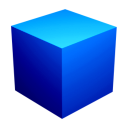
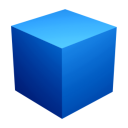
updated launcher

diff --git a/XBuilders Launcher/XBuildersLauncher/src/main/java/com/xbuilders_launcher/Main.java b/XBuilders Launcher/XBuildersLauncher/src/main/java/com/xbuilders_launcher/Main.java
@@ -14,67 +14,35 @@ import java.nio.file.Files;
 public class Main extends JFrame {
 
 
-    private static File getRelativePath(String relativePath) {
-        File currentDir = new File(System.getProperty("user.dir"));
-        //If relativePath starts with ../ set currentDir up one level
-        while (relativePath.startsWith("../") || relativePath.startsWith("..\\")) {
-            currentDir = currentDir.getParentFile();
-            relativePath = relativePath.substring(3);
-        }
-        return new File(currentDir, relativePath);
-    }
-
     public static void main(String[] args) {
         try {
             File currentDir = new File(System.getProperty("user.dir"));
             System.out.println("Current dir: " + currentDir.getAbsolutePath());
-            File config = new File(currentDir, "config.txt");
+            File configFile = new File(currentDir, "config.txt");
 
-            if (!config.exists()) {
-                //Create the config.txt file
-                String str = "XB2\t" +
-                        "XBuilders-2-main\\XBuilders-2-main\t" +
-                        "XBuildersUI4J.jar\n" +
-                        //---------------------------
-                        "XB3\t" +
-                        "XBuilders-main\\XBuilders-main\t" +
-                        "XBuilders3.jar";
 
-                Files.write(config.toPath(), str.getBytes());
-            }
 
             //Read the config.txt file
-            String[] lines = new String(Files.readAllBytes(config.toPath())).split("\n");
+            Config config = new Config(configFile);
+            System.out.println(config.toString());
 
-            File xbuilders2File = null;
-            File xbuilder3File = null;
-            for (int i = 0; i < lines.length; i++) {
-                lines[i] = lines[i].trim();
-                String[] parts = lines[i].split("\t");
 
-                if (parts[0].equals("XB2")) {
-                    xbuilders2File = getRelativePath(parts[1]);
-                } else if (parts[0].equals("XB3")) {
-                    xbuilder3File = getRelativePath(parts[1]);
-                }
+            if (!config.xbuilders2File.exists()) {
+                createPopupWindow("Error", "XBuilders 2 location not found." +
+                        "Please update config file with the correct path:\n \"" + config.xbuilders2File.getAbsolutePath() + "\"");
             }
 
-            System.out.println("XBuilders 2 path: " + xbuilders2File.getAbsolutePath());
-            System.out.println("XBuilders 3 path: " + xbuilder3File.getAbsolutePath());
-            if (!xbuilders2File.exists()) {
-                createPopupWindow("Error", "XBuilders 2 not found:\n \"" + xbuilders2File.getAbsolutePath() + "\"");
-            }
-
-            if (!xbuilder3File.exists()) {
-                createPopupWindow("Error", "XBuilders 3 not found:\n \"" + xbuilder3File.getAbsolutePath() + "\"");
+            if (!config.xbuilder3File.exists()) {
+                createPopupWindow("Error", "XBuilders 3 location not found." +
+                        "Please update config file with the correct path:\n \"" + config.xbuilder3File.getAbsolutePath() + "\"");
             }
 
 
             //Remove the filenamef rom the path and  put it in the name
-            String xbuilders2Name = xbuilders2File.getName();
-            File xbuilders2Dir = xbuilders2File.getParentFile();
-            String xbuilder3Name = xbuilder3File.getName();
-            File xbuilder3Dir = xbuilder3File.getParentFile();
+            String xbuilders2Name = config.xbuilders2File.getName();
+            File xbuilders2Dir = config.xbuilders2File.getParentFile();
+            String xbuilder3Name = config.xbuilder3File.getName();
+            File xbuilder3Dir = config.xbuilder3File.getParentFile();
             System.out.println("\nXBuilders 2 name: " + xbuilders2Name);
             System.out.println("XBuilders 3 name: " + xbuilder3Name);
             System.out.println("XBuilders 2 dir: " + xbuilders2Dir.getAbsolutePath());
@@ -86,6 +54,7 @@ public class Main extends JFrame {
                     xbuilder3Name,
                     xbuilders2Dir,
                     xbuilder3Dir,
+                    config,
                     "");
         } catch (Exception e) {
             e.printStackTrace();
@@ -111,9 +80,10 @@ public class Main extends JFrame {
 
 
     public Main(String xb2jarfile, String xb3jarfile,
-                File xb2dir, File xb3dir, String args) throws IOException, FontFormatException {
+                File xb2dir, File xb3dir,
+                Config config, String args) throws IOException, FontFormatException {
         super("XBuilders Launcher");
-        setSize(450, 310);
+        setSize(480, 330);
         //Disable maximize button
         setResizable(false);
         setLocationRelativeTo(null);
@@ -168,6 +138,8 @@ public class Main extends JFrame {
             runProgram(xb3dir, xb3jarfile, args,
                     runAsTerminal.isSelected());
         });
+
+        runAsTerminal.setSelected(config.runConsoleOut);
 
         setVisible(true);
     }

diff --git a/XBuilders Launcher/XBuildersLauncher/src/main/java/com/xbuilders_launcher/Config.java b/XBuilders Launcher/XBuildersLauncher/src/main/java/com/xbuilders_launcher/Config.java
@@ -1,0 +1,62 @@
+package com.xbuilders_launcher;
+
+import java.io.File;
+import java.io.IOException;
+import java.nio.file.Files;
+
+public class Config {
+
+    //Default values
+    File xbuilders2File = null;
+    File xbuilder3File = null;
+    boolean runConsoleOut = false;
+
+    public Config(File f) throws IOException {
+        //First make sure the config file exists
+        if (!f.exists()) {
+            //Create the config.txt file
+            String str = "XB2\tXBuilders-2-main\\XBuildersUI4J.jar\n" +
+                    "XB3\tXBuilders-main\\XBuilders3.jar\n" +
+                    "runConsoleOut\tfalse";
+
+            Files.write(f.toPath(), str.getBytes());
+        }
+
+        String[] lines = new String(Files.readAllBytes(f.toPath())).split("\n");
+        for (int i = 0; i < lines.length; i++) {
+            lines[i] = lines[i].trim();
+            String[] parts = lines[i].split("\t");
+            String key = parts[0];
+            String value = parts[1];
+            switch (key) {
+                case "XB2":
+                    xbuilders2File = getRelativePath(value);
+                    break;
+                case "XB3":
+                    xbuilder3File = getRelativePath(value);
+                    break;
+                case "runConsoleOut":
+                    runConsoleOut = Boolean.parseBoolean(value);
+                    break;
+            }
+        }
+    }
+
+
+    private static File getRelativePath(String relativePath) {
+        File currentDir = new File(System.getProperty("user.dir"));
+        //If relativePath starts with ../ set currentDir up one level
+        while (relativePath.startsWith("../") || relativePath.startsWith("..\\")) {
+            currentDir = currentDir.getParentFile();
+            relativePath = relativePath.substring(3);
+        }
+        return new File(currentDir, relativePath);
+    }
+
+    public String toString() {
+        String str = "XB2\t" + xbuilders2File.getAbsolutePath() + "\n" +
+                "XB3\t" + xbuilder3File.getAbsolutePath() + "\n" +
+                "runConsoleOut\t" + runConsoleOut + "\n";
+        return str;
+    }
+}
